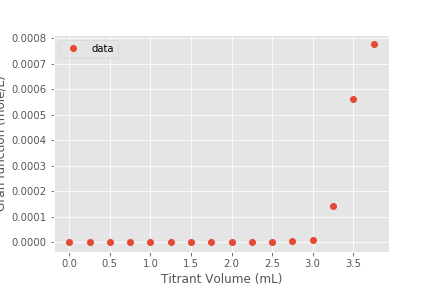
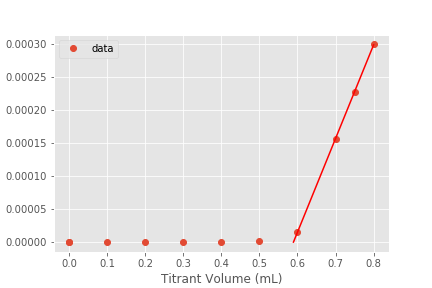
Added ANC_analysis that pulls titration data from a file and does the gran analysis

diff --git a/Environmental_Processes_Analysis.py b/Environmental_Processes_Analysis.py
@@ -47,7 +47,8 @@ def Column_of_data(data_file_path,start,end,column,units):
     The first data column is column 1.
 
     units: string of the units you want to apply to the data.
-    Example 'mg/L'
+    Example 'mg/L'S
+    If an empty string, '', is passed then no units are applied.
 
     Returns
     -------
@@ -55,7 +56,10 @@ def Column_of_data(data_file_path,start,end,column,units):
 
     """
     df = pd.read_csv(data_file_path,delimiter='\t')
-    data = np.array(pd.to_numeric(df.iloc[start:end,column]))*u(units)
+    if units == '':
+        data = np.array(pd.to_numeric(df.iloc[start:end,column]))
+    else:
+        data = np.array(pd.to_numeric(df.iloc[start:end,column]))*u(units)
     return data;
 
 def notes(data_file_path):

diff --git a/ANC_analysis.md b/ANC_analysis.md
@@ -1,0 +1,54 @@
+```python
+from aide_design.play import *
+from scipy import stats
+import Environmental_Processes_Analysis as EPA
+import importlib
+importlib.reload(EPA)
+data_file_path = 'Lab4_Sample1_Time0.txt'
+print(EPA.notes(data_file_path))
+firstrow = 6
+#This data file doesn't have time as the first column so we don't use the time function. Instead simply extract both relevant columns of data.
+V_titrant = EPA.Column_of_data(data_file_path,firstrow,-1,0,'mL')
+#The Column_of_data function automatically adds units. For this case we don't want units for the pH column. We can get this by sending an empty string for the units.
+#I modified the EPA file so that it doesn't apply units if the string is empty.
+
+pH_data = (EPA.Column_of_data(data_file_path,firstrow,-1,1,''))
+# I didn't write the code to pull these numbers from the data file. It would be good to do that for next year!
+V_sample = 50*u.mL
+titrant_normality = 0.1*u.mole/u.L
+
+```
+## Equation for the First Gran Function
+$${F_1}  =  \frac{{{V_S} + {V_T}}}{{{V_S}}}{\text{[}}{{\text{H}}^ + }{\text{]}}$$
+
+```Python
+#Define the gran function.
+def F1(V_sample,V_titrant,pH):
+  return (V_sample + V_titrant)/V_sample * EPA.invpH(pH)
+#Create an array of the F1 values.
+F1_data = F1(V_sample,V_titrant,pH_data)
+#By inspection I guess that there are 4 good data points in the linear region.
+N_good_points = 4
+#use scipy linear regression. Note that the we can extract the last n points from an array using the notation [-N:]
+slope, intercept, r_value, p_value, std_err = stats.linregress(V_titrant[-N_good_points:],F1_data[-N_good_points:])
+#reattach the correct units to the slope and intercept.
+intercept = intercept*u.mole/u.L
+slope = slope*(u.mole/u.L)/u.mL
+V_eq = -intercept/slope
+
+V_eq
+#The equivilent volume agrees well with the value calculated by ProCoDA.
+#create an array of points to draw the linear regression line
+x=[V_eq.magnitude,V_titrant[-1].magnitude ]
+y=[0,(V_titrant[-1]*slope+intercept).magnitude]
+#Now plot the data and the linear regression
+plt.plot(V_titrant, F1_data,'o')
+plt.plot(x, y,'r')
+plt.xlabel('Titrant Volume (mL)')
+plt.ylabel('Gran function (mole/L)')
+plt.legend(['data'])
+
+plt.savefig('images/Gran.png')
+plt.show()
+
+```
